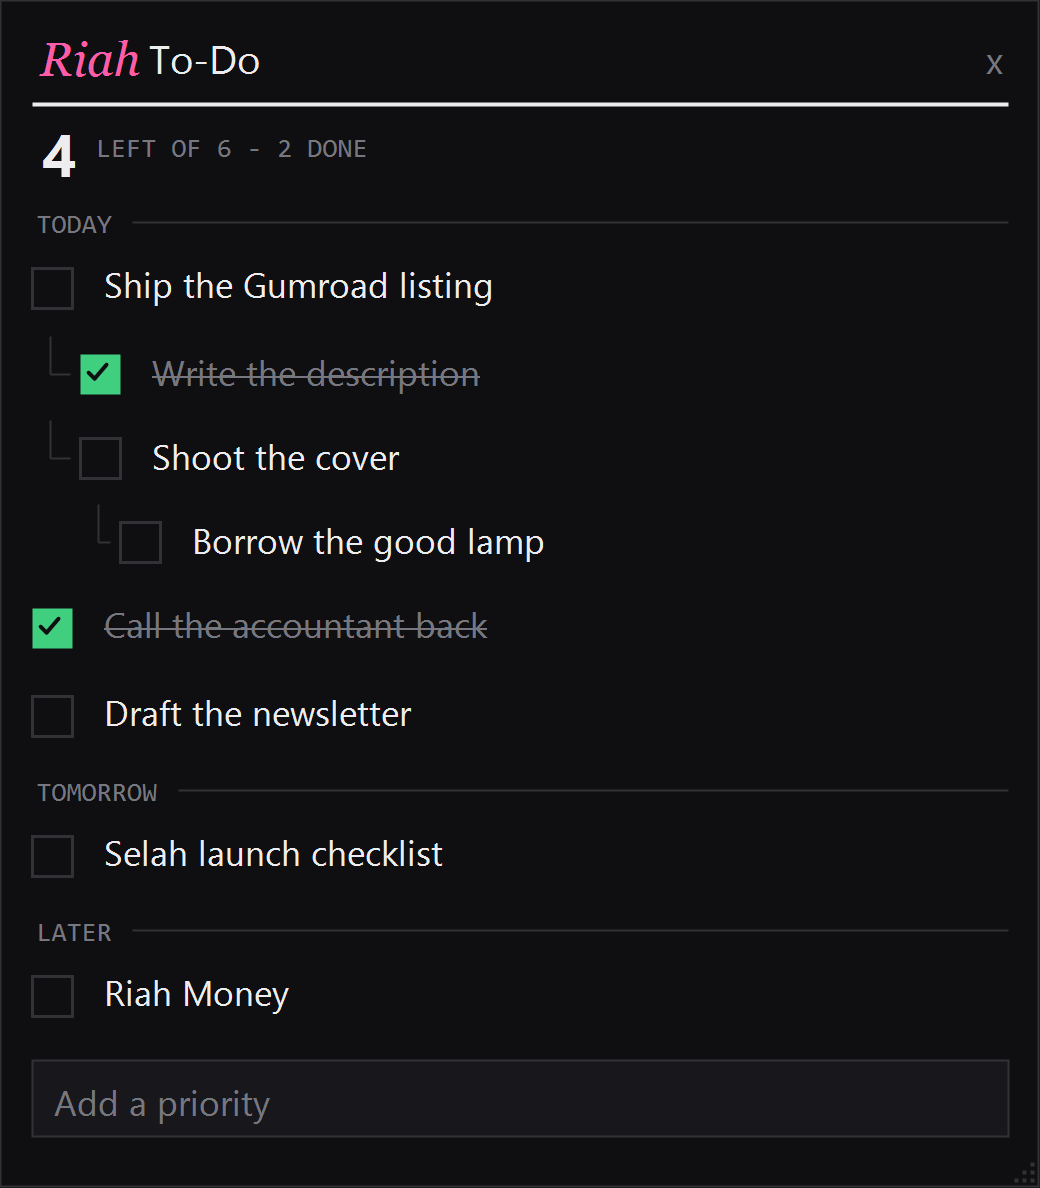
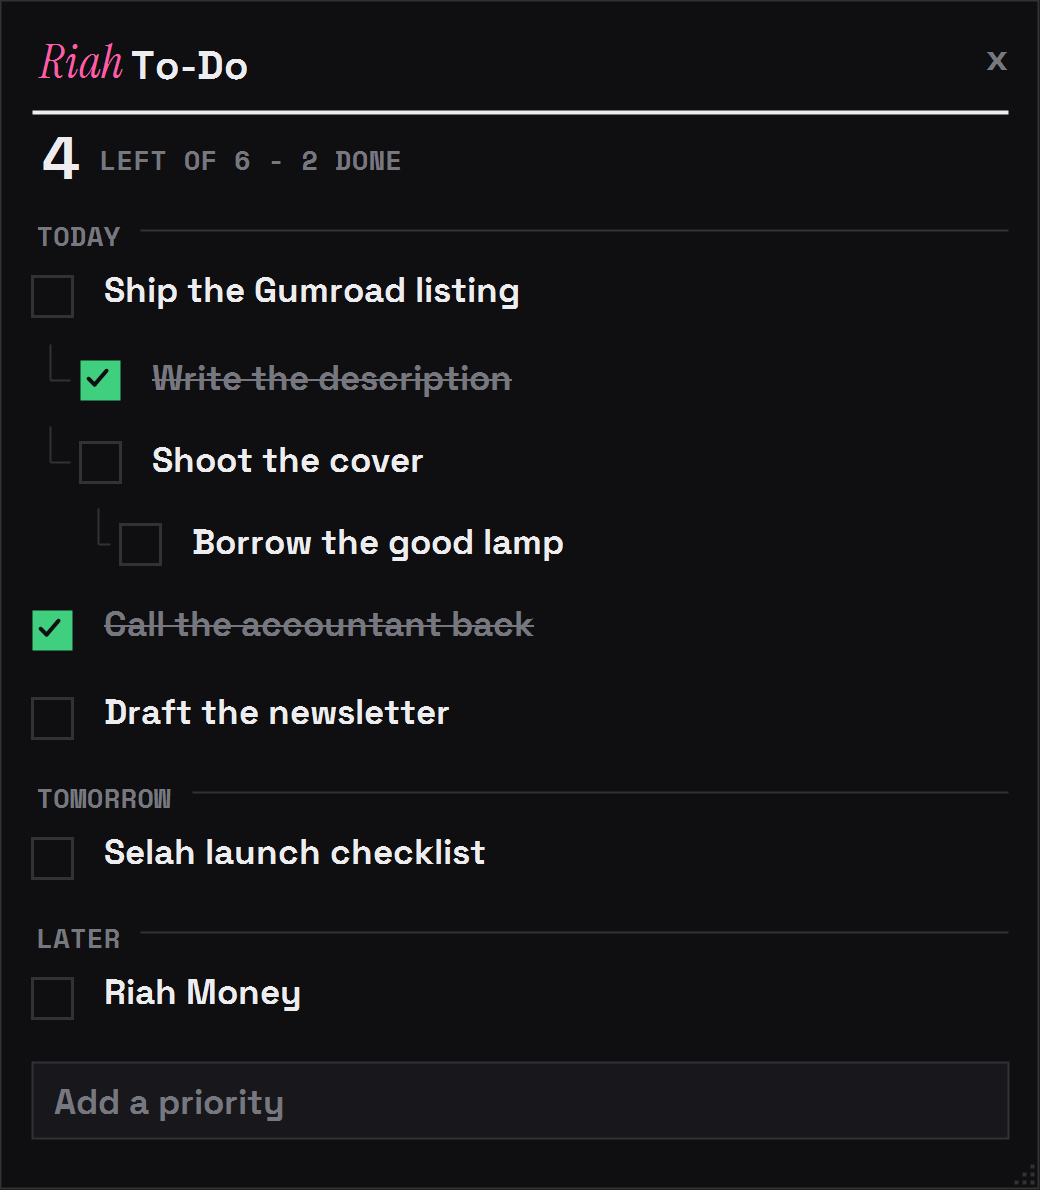
Make the two shots read as full list vs shrunk by the clock.
The old pair was the same desk and almost the same height, so they looked like twins.

diff --git a/README.md b/README.md
@@ -6,9 +6,10 @@
 
 
 <p align="center">
-  <img src="docs/screenshots/note-dark.png" width="49%" alt="Riah To-Do — the note open on a Windows desktop above the clock, with today&rsquo;s nested tasks" />
-  <img src="docs/screenshots/note-scrolling.png" width="49%" alt="Riah To-Do — same desktop, a longer list scrolling inside a shorter note" />
+  <img src="docs/screenshots/note-dark.png" width="49%" alt="Riah To-Do — the note open tall, showing today’s nested tasks" />
+  <img src="docs/screenshots/note-scrolling.png" width="49%" alt="Riah To-Do — the same note shrunk by the clock; the long list scrolls inside" />
 </p>
+<p align="center"><em>Left: open all the way.&nbsp;&nbsp;Right: drag it short — the list scrolls, it stays by the clock.</em></p>
 
 **The to-do list you'll actually open.**
 
